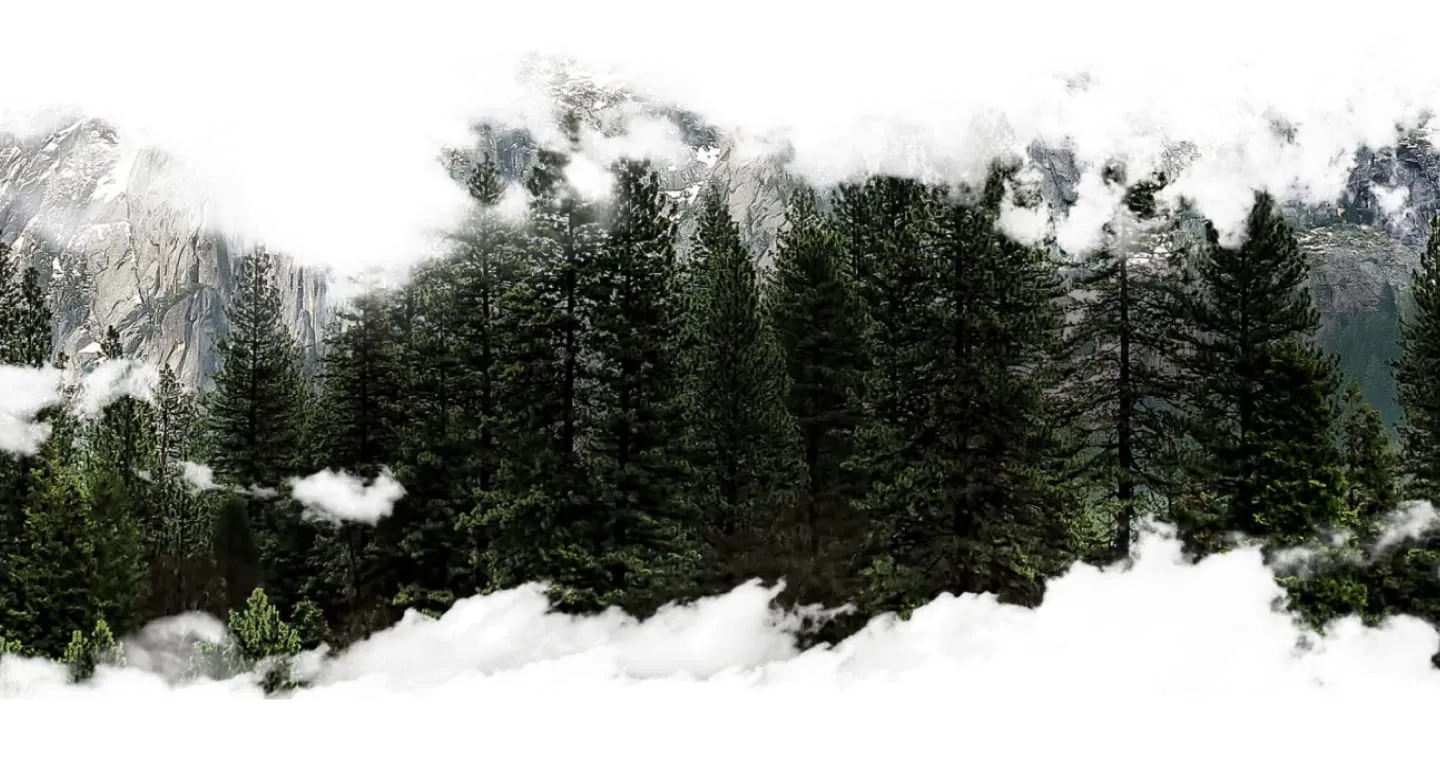
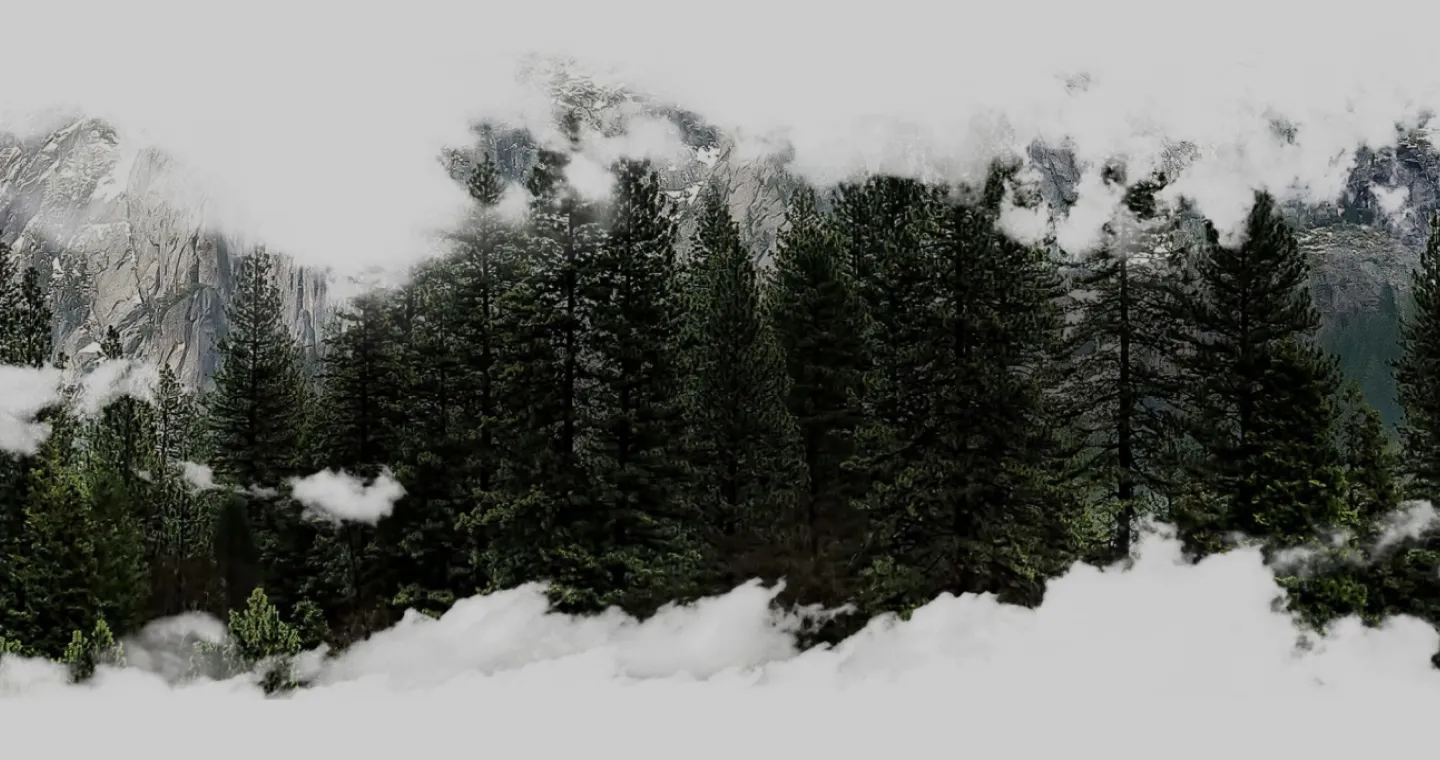
17 блоков pp

diff --git a/source/index.html b/source/index.html
@@ -99,8 +99,8 @@
               <p>Незабываемое приключение, во время которого вы отправитесь в путешествие по одному из самых нетронутых уголков дикой природы в мире.</p>
               <a class="main-carousel__button button button--main" href="#">Смотреть тур</a>
               <div class="main-carousel__group-info">
-                <div class="main-carousel__info-item hero__info-item--duration">6 дней/5 ночей</div>
-                <div class="main-carousel__info-item hero__info-item--difficulty">Высокая сложность</div>
+                <div class="main-carousel__info-item main-carousel__info-item--duration">6 дней/5 ночей</div>
+                <div class="main-carousel__info-item main-carousel__info-item--difficulty">Высокая сложность</div>
               </div>
             </div>
           </div>
@@ -118,8 +118,8 @@
               <p>В сопровождении опытных гидов вы пройдёте через потрясающие ландшафты и совершите восход на вершину горы Чегет.</p>
               <a class="main-carousel__button button button--main" href="#">Смотреть тур</a>
               <div class="main-carousel__group-info">
-                <div class="main-carousel__info-item hero__info-item--duration">6 дней/5 ночей</div>
-                <div class="main-carousel__info-item hero__info-item--difficulty">Высокая сложность</div>
+                <div class="main-carousel__info-item main-carousel__info-item--duration">6 дней/5 ночей</div>
+                <div class="main-carousel__info-item main-carousel__info-item--difficulty">Высокая сложность</div>
               </div>
             </div>
           </div>

diff --git a/source/sass/blocks/form-block.scss b/source/sass/blocks/form-block.scss
@@ -9,6 +9,7 @@
     url("../../img/form/form-mobile@2x.jpg") type("image/jpeg") 2x,
     url("../../img/form/form-mobile@2x.webp") type("image/webp") 2x
   );
+  background-color: rgba(0, 0, 0, 0.2);
   background-size: cover;
   background-position: top 0 left -36px;
   background-repeat: no-repeat;
@@ -59,8 +60,8 @@
   }
 
   @media (min-width: $desktop-width) {
-    padding-top: 295px;
-    min-height: 757px;
+    padding-top: 296px;
+    min-height: 758px;
     /* stylelint-disable-next-line @stylistic/declaration-colon-newline-after */
     background-image: image-set(
       url("../../img/form/form-desktop@1x.jpg") type("image/jpeg") 1x,
